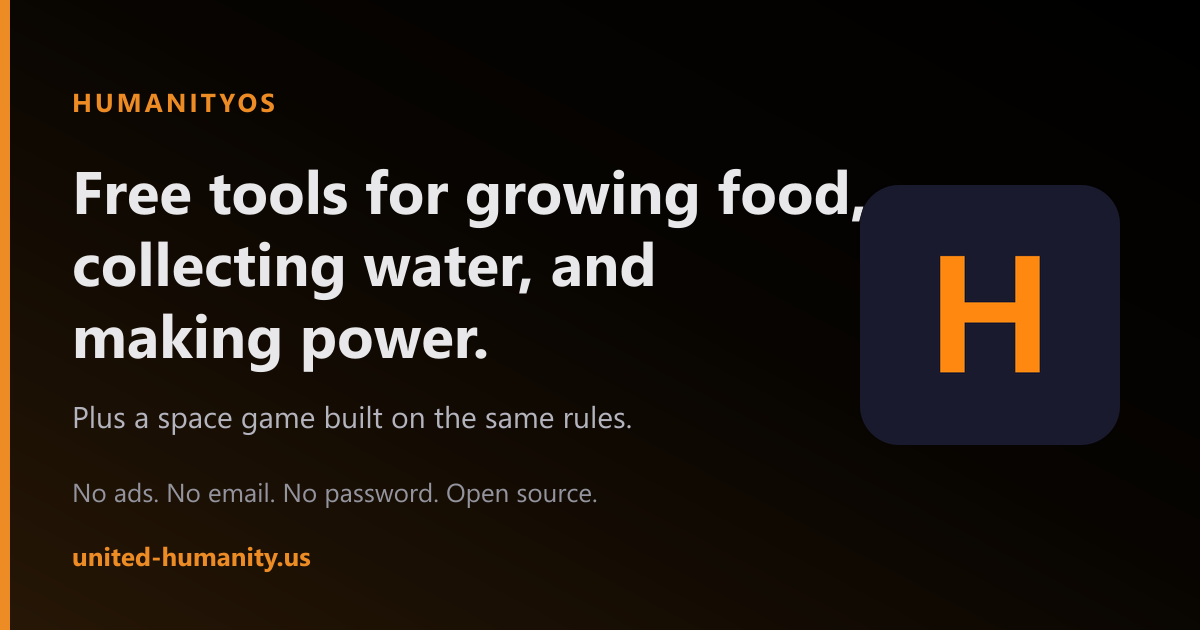
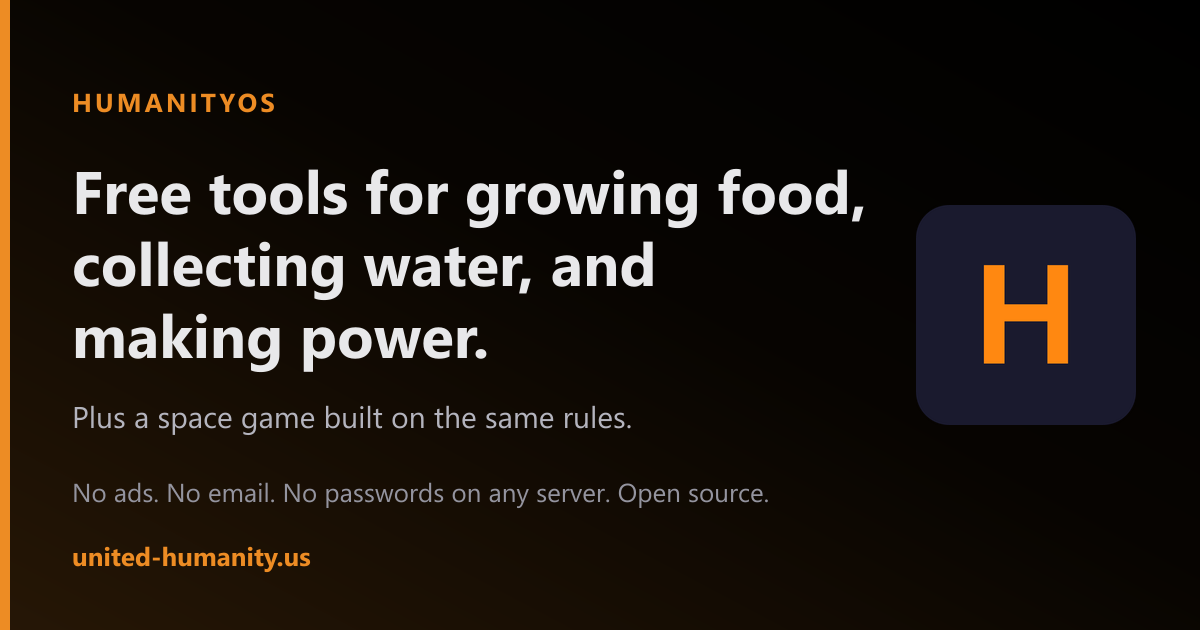
The link card says "No passwords on any server", and the app mark no longer touches the headline
The card every shared link shows (web/shared/social/og-banner.png, from scripts/gen-og-banner.js)
said "No password.", which the account-words rule (CLAUDE.md, 2026-09-29) retires: the desktop app
does ask for a passphrase to unlock the key, so the true claim is no passwords stored on any server.
And the comma after "food" touched the 260 px app mark at x 860, visible in the card as posted on
Threads on 2026-11-15; the mark is now 220 px at 64 px from the edge, a clear gap after the line.
The card's product-first wording is otherwise unchanged: a cold reader understood it from the card
alone that day.

Changed region(s): [[0.7092, 0.2714, 0.925, 0.7238], [0.37, 0.754, 0.6475, 0.8143], [0.925, 0.3317, 0.9558, 0.6635]]

diff --git a/scripts/gen-og-banner.js b/scripts/gen-og-banner.js
@@ -54,7 +54,7 @@ const svg = `<svg xmlns="http://www.w3.org/2000/svg" width="${W}" height="${H}" 
 
   <text x="72" y="428" font-family="${FONT}" font-size="30" fill="${T.secondary}">Plus a space game built on the same rules.</text>
 
-  <text x="72" y="502" font-family="${FONT}" font-size="26" fill="${T.muted}">No ads. No email. No password. Open source.</text>
+  <text x="72" y="502" font-family="${FONT}" font-size="26" fill="${T.muted}">No ads. No email. No passwords on any server. Open source.</text>
 
   <text x="72" y="566" font-family="${FONT}" font-size="26" font-weight="700" fill="${T.accent}">united-humanity.us</text>
 </svg>`;
@@ -65,14 +65,16 @@ const OUT = path.join('web', 'shared', 'social', 'og-banner.png');
   const base = await sharp(Buffer.from(svg)).png().toBuffer();
 
   // The app mark, right-hand side. Kept modest: the words carry the message,
-  // and the old banner's mistake was letting a logo occupy half the frame.
-  const markSize = 260;
+  // and the old banner's mistake was letting a logo occupy half the frame. 220 px at 64 px from
+  // the edge leaves a clear gap after the headline's widest line ("food," reached x 865 and
+  // touched a 260 px mark at x 860, visible in the card as posted on 2026-11-15).
+  const markSize = 220;
   const mark = await sharp(path.join('web', 'shared', 'icons', 'icon-512.png'))
     .resize(markSize, markSize, { fit: 'contain', background: { r: 0, g: 0, b: 0, alpha: 0 } })
     .toBuffer();
 
   await sharp(base)
-    .composite([{ input: mark, left: W - markSize - 80, top: Math.round((H - markSize) / 2) }])
+    .composite([{ input: mark, left: W - markSize - 64, top: Math.round((H - markSize) / 2) }])
     .png({ compressionLevel: 9 })
     .toFile(OUT);
 
